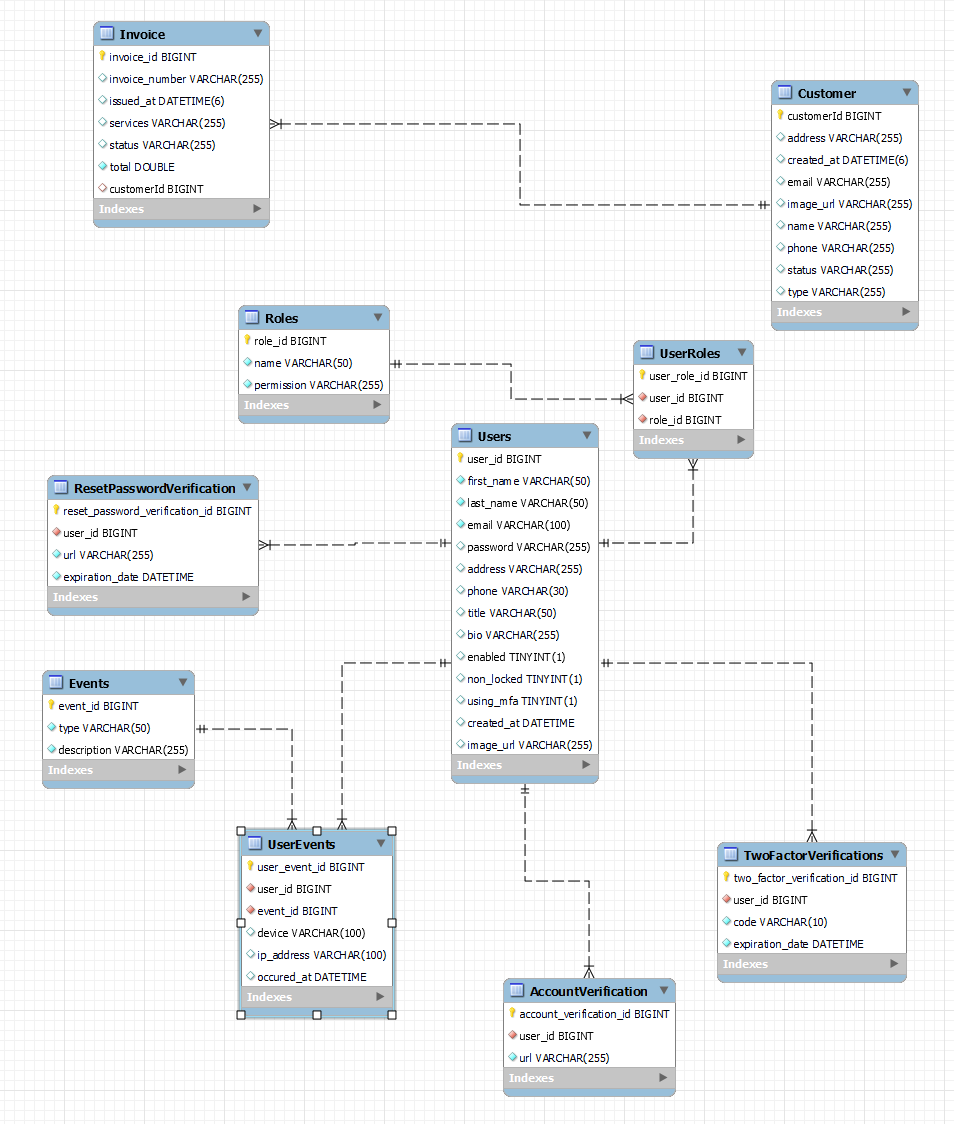
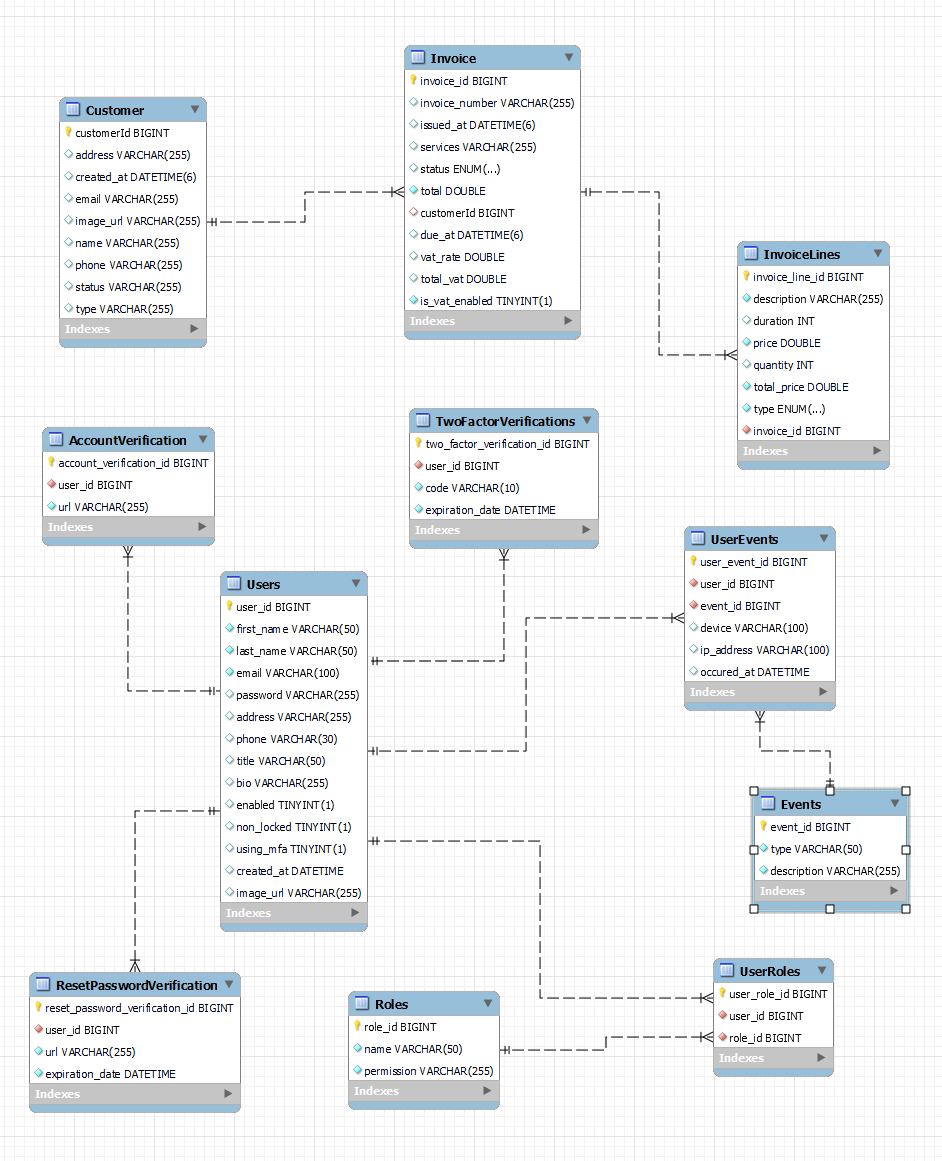
Update ReadMe

diff --git a/README.md b/README.md
@@ -1,16 +1,38 @@
-# SecureInvoices
+# Secure-Invoices Backend
 
-Web application to manage customers and invoices.
-In progress.
+Secure-Invoices Backend is the server-side component of the Secure-Invoices web application. It provides RESTful APIs for managing authentication, user profiles, clients, and invoices. The backend ensures secure data processing with JWT-based authentication and supports data export in multiple formats.
+
+## Features
+
++ Authentication & Security: Implements JWT-based authentication and Two-Factor Authentication (2FA).
+
++ User Management: Handles user profiles, roles, and modification history.
+
++ Client & Invoice Management: CRUD operations for clients and invoices.
+
++ Admin Dashboard: Provides statistics and analytics for administrators.
+
++ Data Export: Supports exporting data in Excel and PDF formats.
+
+## Tech Stack
+
++ Framework: Spring Boot (Spring Framework)
+
++ Database: MySQL, Spring Data JDBC, Spring Data JPA
+
++ Authentication: JWT, Spring Security
+
++ API: RESTful services
+
 
 ## Application Design Overview
 
 <p align="center">
-    <img src="./application_design.png" alt="" style="height: 500px; width:900px;"/>
+    <img src="./application_design.png" alt="" style="width:1400px;"/>
 </p>
 
-### Database - in progress
+### Database Schema
 
 <p align="center">
-    <img src="./reverseEngineering.png" alt="" style="height: 500px; width:800px;"/>
+    <img src="./reverseEngineering.png" alt=""/>
 </p>
